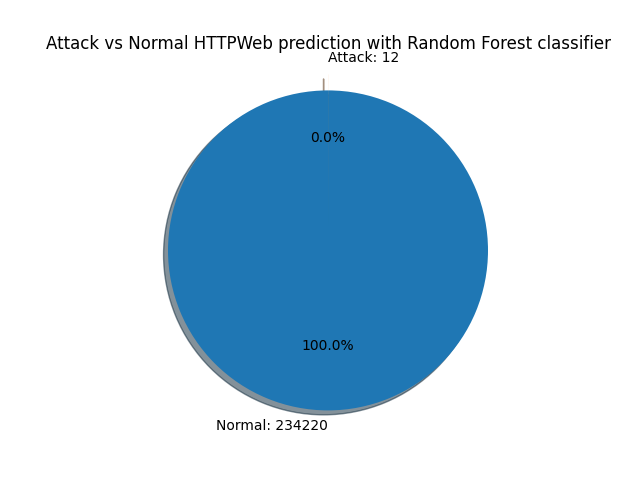
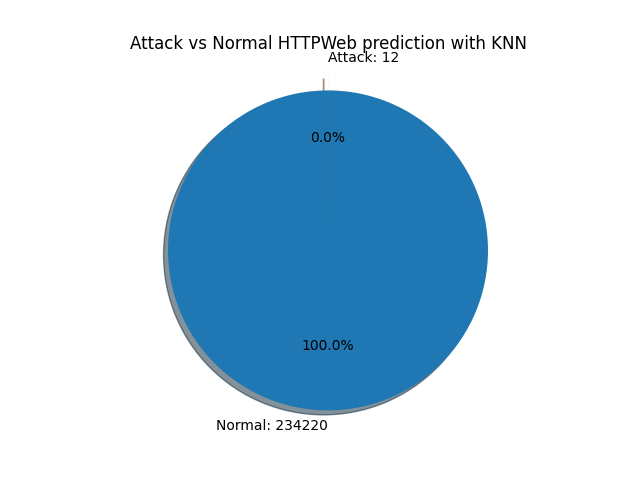
Correct title of KNN chart

Changed region(s): [[0.0625, 0.0625, 0.9688, 0.125]]

diff --git a/sub-project-3/challenge1/challenge1_httpweb_KNN.py b/sub-project-3/challenge1/challenge1_httpweb_KNN.py
@@ -38,7 +38,7 @@ predictions = knn_model.predict(X_test)
 
 # Plot the pie chart of Attack vs Normal
 plot_result(predictions, "plot_images/KNN_HTTPWeb_Pie.png",
-            "Attack vs Normal HTTPWeb prediction with Random Forest classifier")
+            "Attack vs Normal HTTPWeb prediction with KNN")
 
 # Create result file
 print("[+] Creating result file")

diff --git a/sub-project-3/challenge1/challenge1_ssh_KNN.py b/sub-project-3/challenge1/challenge1_ssh_KNN.py
@@ -38,7 +38,7 @@ predictions = knn_model.predict(X_test)
 
 # Plot the pie chart of Attack vs Normal
 plot_result(predictions, "plot_images/KNN_SSH_Pie.png",
-            "Attack vs Normal SSH prediction with Random Forest classifier")
+            "Attack vs Normal SSH prediction with KNN")
 
 # Create result file
 print("[+] Creating result file")

diff --git a/sub-project-3/challenge1/README.md b/sub-project-3/challenge1/README.md
@@ -1,0 +1,58 @@
+# Challenge 1
+
+## Description
+
+The goal of this challenge is to determine the number of flows that can be considered as a flow "_Attack_".
+To do this, we have to use our previous work from [sub-project-1](../../sub-project-1/README.md)
+and [sub-project-2](../../sub-project-2/README.md).
+
+In our case, we will use the Random Forest and K-Nearest Neighbors classifiers to determine the number of "_Attack_"
+flows.
+
+## How to run
+
+We have chosen to use a file for each classifier and each protocol.
+These files are getting the corresponding data, train the classifier and then test it.
+A pie chart and a result file are generated for each classifier and each protocol.
+
+Pie charts are generated in the `plot_images` folder.
+
+Result files are generated in the `results` folder.
+
+To start, you can create all pickle files by running the files `split_datas.py`.
+It will create the pickle files :
+
+- `test_httpweb.pickle`
+- `test_ssh.pickle`
+- `train.pickle`
+
+**Warning** : `split_datas.py` supposed that you have place all training `.xml` into the `TRAIN_ENSIBS` folder and all
+testing `.xml` into the `challenge1_data` folder.
+
+After that, you can run the following files to generate the pie charts and the result.
+
+- `challenge1_httpweb_KNN.py`
+- `challenge1_httpweb_RF.py`
+- `challenge1_ssh_KNN.py`
+- `challenge1_ssh_RF.py`
+
+## Some result examples
+
+### HttpWeb
+
+From our `HttpWeb` results, we can see that we have a very few "_Attack_" flows.
+Only 12 flows for the KNN classifier and 0 for the Random Forest classifier.
+
+![KNN with HttpWeb](plot_images/KNN_HTTPWeb_Pie.png)
+
+![RF with HttpWeb](plot_images/RandomForest_HTTPWeb_Pie.png)
+
+### SSH
+
+From our `SSH` results, this is much more interesting.
+We have 2379 "_Attack_" flows for the KNN classifier and 2381 for the Random Forest classifier.
+That seems to be a lot of "_Attack_" flows but still possible.
+
+![KNN with SSH](plot_images/KNN_SSH_Pie.png)
+
+![RF with SSH](plot_images/RandomForest_SSH_Pie.png)
